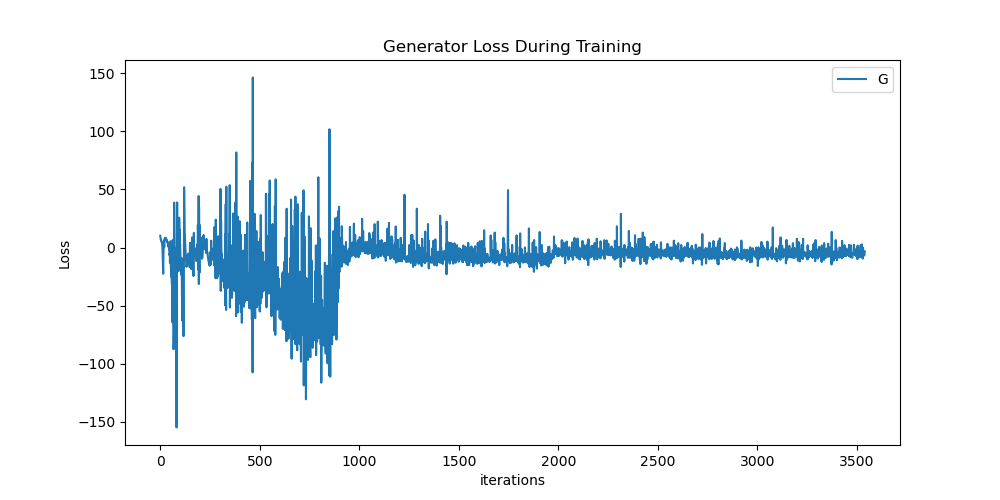
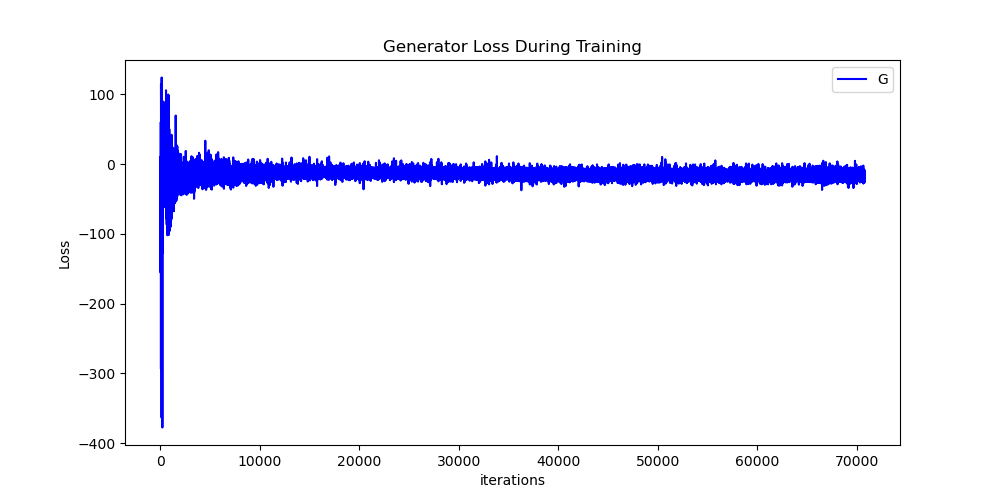
Worked on read me for mapping network

diff --git a/recognition/ADNI-Style-GAN2-s4696807/train.py b/recognition/ADNI-Style-GAN2-s4696807/train.py
@@ -8,7 +8,7 @@ from tqdm import tqdm
 # Define constants and hyperparameters
 DATASET                 = "./OASIS"  # Path to the dataset
 DEVICE                  = "cuda" if torch.cuda.is_available() else "cpu"  # Use GPU if available, otherwise use CPU
-EPOCHS                  = 100 # Number of training epochs
+EPOCHS                  = 301 # Number of training epochs
 LEARNING_RATE           = 1e-3  # Learning rate for optimization
 BATCH_SIZE              = 32  # Batch size for training
 LOG_RESOLUTION          = 7  # Logarithmic resolution used for 128*128 images

diff --git a/recognition/ADNI-Style-GAN2-s4696807/predict.py b/recognition/ADNI-Style-GAN2-s4696807/predict.py
@@ -69,13 +69,13 @@ for epoch in range(EPOCHS):
     Total_G_Losses.extend(G_Losses)
     Total_D_Losses.extend(D_Losses)
     
-    if epoch % 20 == 0:
+    if epoch % 50 == 0:
         # Generate example images for the current epoch
         generate_examples(gen, epoch)
     
 plt.figure(figsize=(10,5))
 plt.title("Generator Loss During Training")
-plt.plot(Total_G_Losses,label="G", color="blue")
+plt.plot(Total_G_Losses, label="G", color="blue")
 plt.xlabel("iterations")
 plt.ylabel("Loss")
 plt.legend()

diff --git a/recognition/ADNI-Style-GAN2-s4696807/README.md b/recognition/ADNI-Style-GAN2-s4696807/README.md
@@ -9,6 +9,7 @@ Furthermore, StyleGAN2-generated brain images find applications in education and
 In terms of cost-effectiveness, generating synthetic brain images reduces the need for expensive data acquisition and medical equipment, making it an efficient option for testing algorithms and technologies. Additionally, it supports personalized medicine by allowing customization and simulation of individual patient profiles. Overall, StyleGAN2's role in generating brain images has the potential to revolutionize medical imaging, research, and healthcare, offering a versatile and ethical approach to data generation, analysis, and application development.
 
 
+
 # Project Structure
 - `modules.py`: The Generator and Discriminator networks as well as the layers and block that make them up. 
 - `dataset.py`: Data loader and preprocessing for the OASIS brain dataset, performing augmentation.
@@ -16,11 +17,13 @@ In terms of cost-effectiveness, generating synthetic brain images reduces the ne
 - `predict.py`: Use of the model and display of the progress of the loss for both networks and generated images. 
 
 
+
 # How to Use
 In order to run this model on the OASIS dataset and see the generated images, you can run the predict.py file.
 This file imports the necessary dataset, modules and training process from the dataset.py, modules.py and train.py files respectively.
 It trains the model on the OASIS dataset and then provides the loss for each epoch as well as the generated images. After the training
 is complete it plots a graph of the losses of the generator and discriminator networks over time to show that they begin to converge. 
+
 
 
 # Understanding the Model 
@@ -38,12 +41,21 @@ The Stylegan2 model architecture expands upon that of the original Stylegan arch
 Stylegan2 restricts the use of the adaptive instance noramlisation, get away from progressive growing to resolve the artifacts introduced in Stylegan, and introduces a perceptual path length normalisation term in it's loss function to improve the latent space interpolation ability.  
 
 
+
 # Model Architecture Implementation
 The implementation of the Stylegan2 model used in this report is taken directly from the original paper, however it has been simplified drastically and made to be more compact and readable due to the simpler nature of this specific generation task. We will cover all of the important layers explaining their usages and the theory behind them.  These networks and layers can be seen in the modules.py file. 
 
 ## Noise Mapping Network
+This network build upon the pytorch neural network meodule.  When initialising this network the parameters z_dim and w_dim are used.  These are the dimensions that we want for our noise vector z and our style vector w.  
+
+The mapping network is made up of 8 Equalized linear layers, which is a class that will be discussed in more detail below. The output of each of these layers is passed through the ReLU activation function, thus introducing non-linearity to the system.  
+
+For the forward function, pixel normalisation is used in order to ensure that the input pixel are all normalised in order to help stabilise training and improve consistency across channels. 
+
 
 ## Generator Network
+The generator network is broken up into 5 distinct blocks, these are the generator network itself, the generator block, the style block, the ToRBG layer and the convolutional weight layer.  The implemetation and relationships between these are broken down below. 
+
 ### Generator
 
 ### Generator Block
@@ -54,6 +66,7 @@ The implementation of the Stylegan2 model used in this report is taken directly 
 
 ### Convolution Weight Modulation/Demodulation
 
+
 ## Discriminator
 ### Discriminator Block
 
@@ -62,6 +75,7 @@ The implementation of the Stylegan2 model used in this report is taken directly 
 ## Equalised Convolutional Layer
 
 ### Equalised Weight 
+
 
 ## Perceptual Path Normalisation
 ### PathLengthPenalty
@@ -75,8 +89,9 @@ The implementation of the Stylegan2 model used in this report is taken directly 
 
 # Training Process
 
+
 # Results
-After completing the stylegan2's training on the OASIS brain dataset for 10 epochs, the following realisitc images were generated by the trained generator model. In order to display the use of the style vector in the stylegan model's architecture, the images were generated passing different style vectors to the generator in order to display how the stylegan model once trained is able to be styled and shaped. The results have also been compared to that of the original images in the OASIS dataset in order to judge how realsitic the final generators images are.
+After completing the stylegan2's training on the OASIS brain dataset for 300 epochs, the following realisitc images were generated by the trained generator model. In order to display the use of the style vector in the stylegan model's architecture, the images were generated passing different style vectors to the generator in order to display how the stylegan model once trained is able to be styled and shaped. The results have also been compared to that of the original images in the OASIS dataset in order to judge how realsitic the final generators images are.
 
 ---------Images Here
 
@@ -84,14 +99,27 @@ After completing the stylegan2's training on the OASIS brain dataset for 10 epoc
 
 A graph of the loss for both the generator and discriminator networks of the models architecture can be seen below. It shows that the model training perfomed relatively as expected as over time the loss of the generator model decreased and towards the end the discriminator became a little worse as do the to generator network's images becoming more and more realistic. This is exactly what we wanted to see for this model!
 
----------Images Here 
+![Generator Loss](gen_loss.png)
+
+![Discriminator Loss](model_loss.png)
+
+We can also see in the models above that the loss for both networks seems to converge around _, then remains quite stable for the rest of the training.  This further reinforces what we see with the results of each 20 epochs, as the improvement from epoch 20 -> 300 was negligable.  This just means that with the current model and data that I will not get any more accurate in it's image generation no matter how many epoch we run it for. 
+
+Since, the results are quite good this isn't really a problem, however it is good to not that the reason for this is probably due to the small size of the data that was used.  In total, with the used of some preprocessing the total training images used each epoch was 708.  Considering this thw results achieved using the Stylegan2 model are quite impressive, further adding to it's reputation as one of the more prominant generation architectures in computer vision. 
 
 
-## Acknowledgments (Todo)
-The structure of the models used in this report were created using the styleGAN2 reasearch paper.  
+# Conclusion
+To conlude, this Stylegan2 model used in this report was used to successfully generate realistic brain images, utilising both preprocessing as well as Stylegan2's unique style vector to extend these to images that contained multiple brain realsitic brain segments facing in both the left and right direction.  It was found that at after around 20 epochs that the model hit it's limit to how realistic it could become, and it is though that the already high quality images could be further improved through the use of a larger dataset.  
+
+
+# Acknowledgments 
+The structure of the models used in this report were created using the styleGAN2 reasearch paper.  Furthermore, the modules and training procedure were constructed with the help of both of the following resources:
+- Nvidia Stylegan2 Pytorch implementation: https://github.com/NVlabs/stylegan2-ada-pytorch/tree/main 
+- Paperface Stylegan2 report breakdown: https://blog.paperspace.com/understanding-stylegan2/ 
+- Paperface Stylegan2 simplified implementation: https://blog.paperspace.com/implementation-stylegan2-from-scratch/ 
+- Huggingface Stylegan2 implementation: https://huggingface.co/spaces/mfrashad/ClothingGAN/blob/main/models/stylegan2/stylegan2-pytorch/model.py 
 
 
 ## Todo List
-- Set RBG to all same value to get a grayscale image
 - Check if style vector w manipulation shown is good enough with tutor
 
